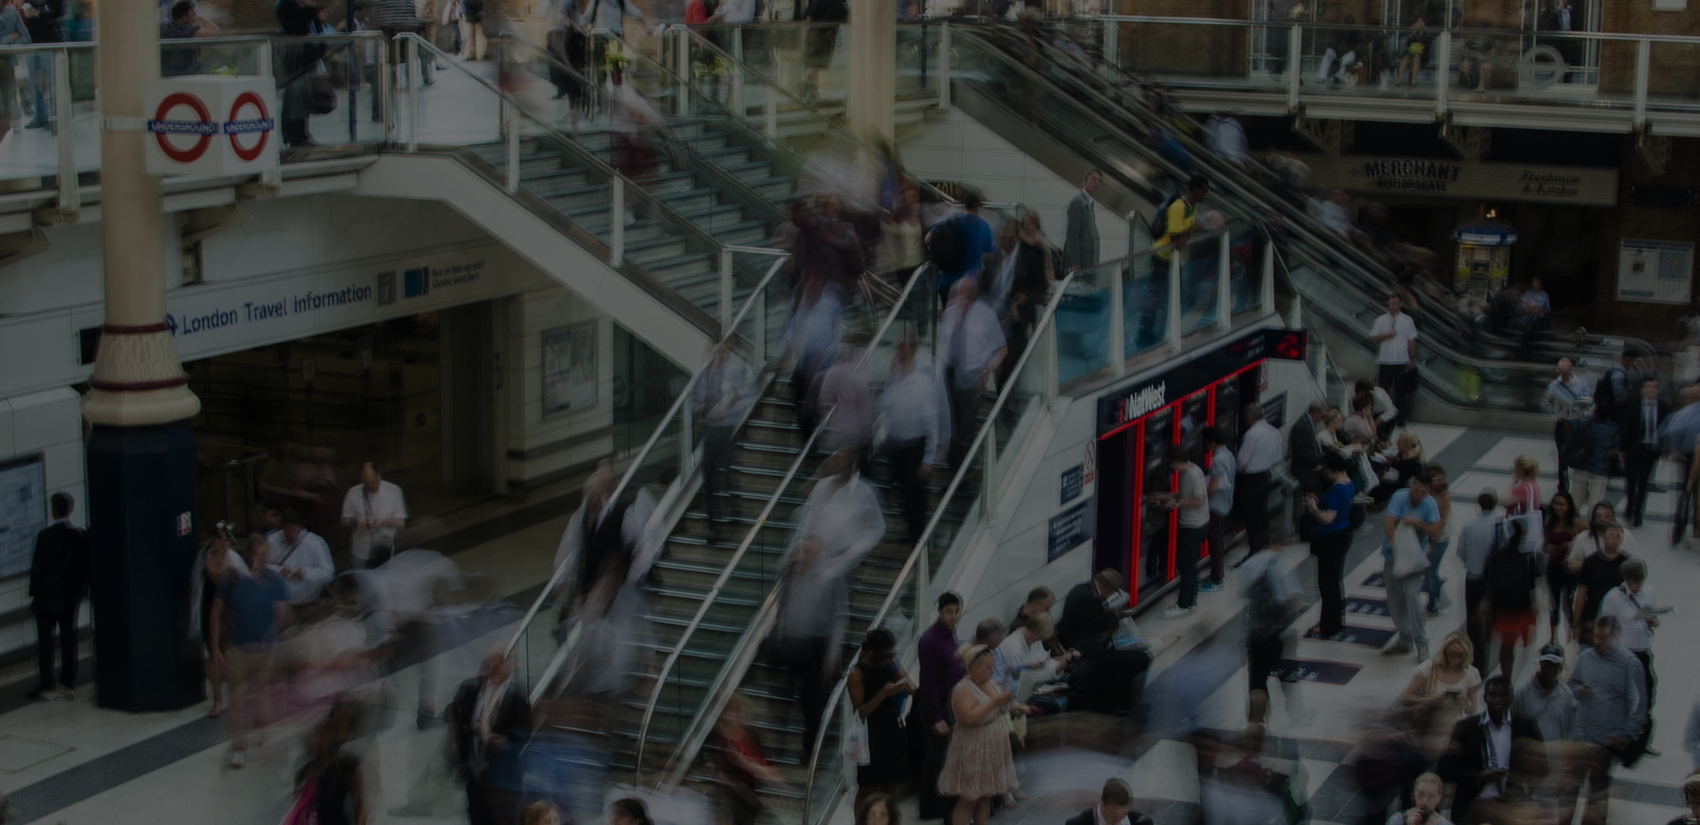
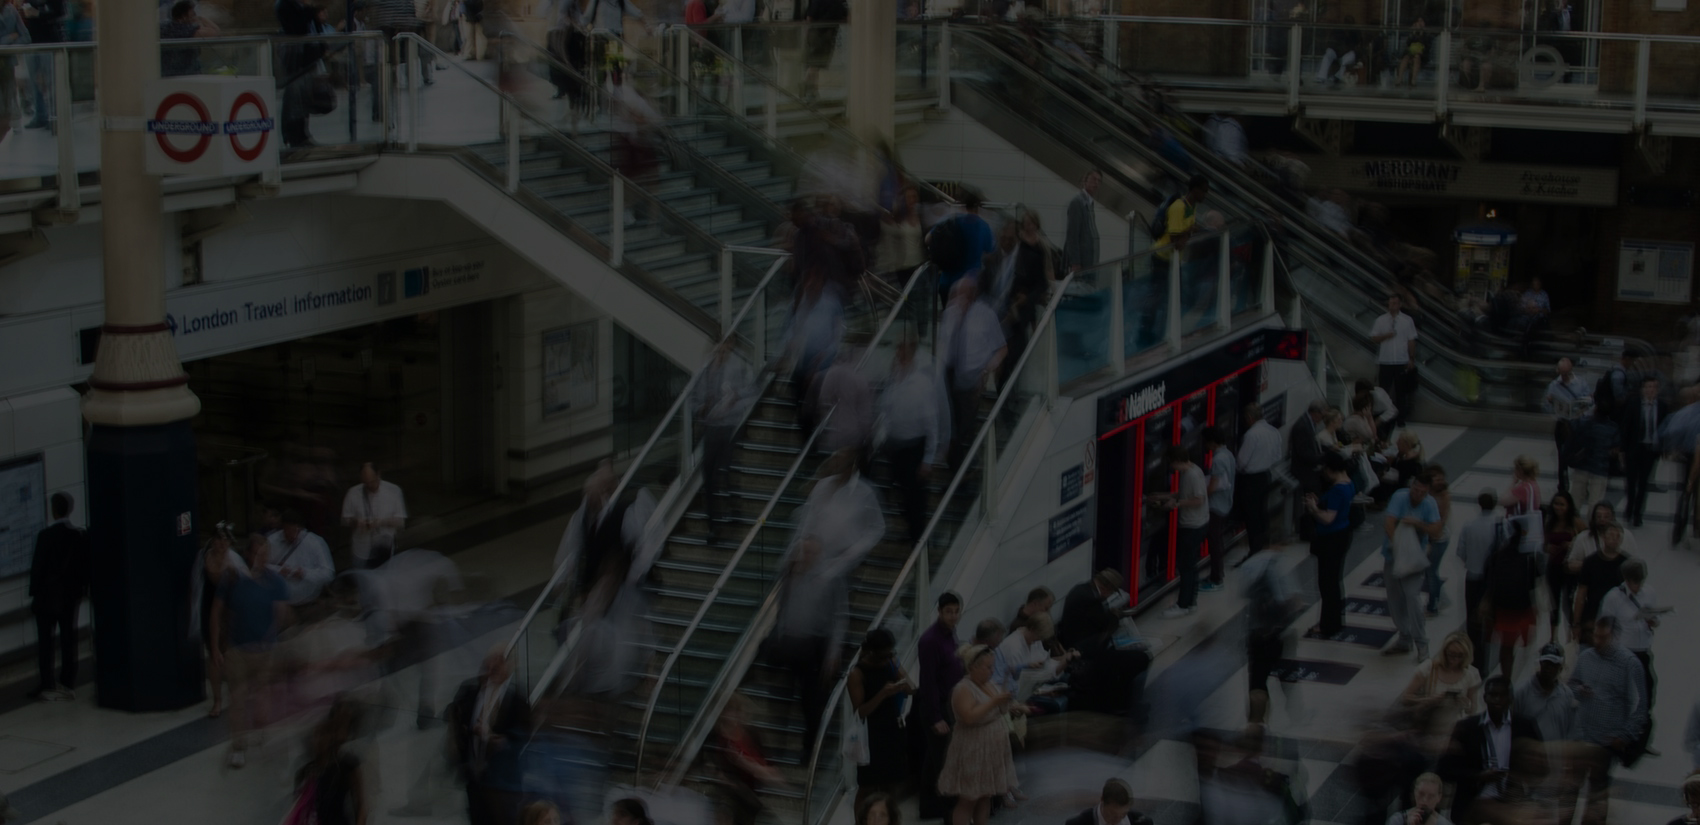
cover_redesign

diff --git a/css/styles.css b/css/styles.css
@@ -983,11 +983,11 @@ h3 {
 p {
   font-family: Proxima;
   color: #404040;
-  font-size: 16.4px; }
+  font-size: 18.4px; }
 
 @media (max-width: 992px) {
   p {
-    font-size: 16px; } }
+    font-size: 18px; } }
 .navbar-default {
   margin-bottom: 0px;
   background-color: #333840;
@@ -1053,7 +1053,10 @@ section.about .container {
 #two {
   min-with: 270px;
   margin-top: 11vw;
-  max-width: 650px; }
+  max-width: 650px;
+  margin-left: 4vw; }
+  #two h2, #two p {
+    color: white; }
 
 .btn-default {
   border-radius: 0px;
@@ -1215,10 +1218,22 @@ section.about .container {
   -moz-box-shadow: inset -1px -112px 0px -1px #FFDC4E;
   box-shadow: inset -1px -112px 0px -1px #FFDC4E; }
 
+#bg {
+  background-image: url("../img/bg1.jpg");
+  background-size: cover;
+  background-repeat: no-repeat;
+  height: 44vw;
+  -webkit-box-shadow: 0px 0px 8px 0 black;
+  -moz-box-shadow: 0px 0px 8px 0 black;
+  box-shadow: 0px 0px 8px 0 black; }
+
+.yellow > .col-md-12 {
+  padding-right: 0px;
+  padding-left: 0px; }
+
 @media (max-width: 992px) {
   #two {
-    padding-left: 50px;
-    max-width: 650px;
+    max-width: 710px;
     padding-right: 10PX;
     padding-bottom: 20px;
     margin-top: 0px; }
@@ -1238,4 +1253,7 @@ section.about .container {
     border-bottom: 14px solid #FFDC4E;
     box-shadow: none;
     -moz-box-shadow: none;
-    -webkit-box-shadow: none; } }
+    -webkit-box-shadow: none; }
+
+  #bg {
+    height: 50vh; } }

diff --git a/sass/styles.sass b/sass/styles.sass
@@ -1042,11 +1042,11 @@ h3
 p
   font-family: Proxima
   color: #404040
-  font-size: 16.4px
+  font-size: 18.4px
 
 @media (max-width: 992px)
   p
-    font-size: 16px
+    font-size: 18px
 
 .navbar-default
   margin-bottom: 0px
@@ -1116,6 +1116,10 @@ section.about .container
   min-with: 270px
   margin-top: 11vw
   max-width: 650px
+  margin-left: 4vw
+
+  h2, p
+    color: white
 
 .btn-default
   border-radius: 0px
@@ -1307,10 +1311,23 @@ section.about .container
     box-shadow: inset -1px -112px 0px -1px #FFDC4E
 
 
+
+#bg
+  background-image: url("../img/bg1.jpg")
+  background-size: cover
+  background-repeat: no-repeat
+  height: 44vw  
+  -webkit-box-shadow: 0px 0px 8px 0 black
+  -moz-box-shadow: 0px 0px 8px 0 black
+  box-shadow: 0px 0px 8px 0 black
+
+.yellow>.col-md-12
+  padding-right: 0px
+  padding-left: 0px
+
 @media (max-width: 992px)
   #two
-    padding-left: 50px
-    max-width: 650px
+    max-width: 710px
     padding-right: 10PX
     padding-bottom: 20px
     margin-top: 0px
@@ -1331,3 +1348,6 @@ section.about .container
     box-shadow: none
     -moz-box-shadow: none
     -webkit-box-shadow: none
+
+  #bg
+    height: 50vh

diff --git a/index.html b/index.html
@@ -62,9 +62,13 @@
                   <div id="one" class="col-md-12"></div>
                 </div>
               </div>
-              <div id="two" class="col-md-6">
-                <h2>Market research<br> was never so <span data-period="2000" data-rotate="[ &quot;agile.&quot;, &quot;affordable.&quot;, &quot;fast.&quot;, &quot;reliable.&quot; ]" class="txt-rotate"></span></h2>
-                <p>A market research tool that allows you to create online surveys, target specific groups and folow up results live in the cloud.</p>
+              <div id="bg" class="col-md-6">
+                <div class="container">
+                  <div id="two" class="col-md-12">
+                    <h2>Market research<br> was never so <span data-period="2000" data-rotate="[ &quot;agile.&quot;, &quot;affordable.&quot;, &quot;fast.&quot;, &quot;reliable.&quot; ]" class="txt-rotate"></span></h2>
+                    <p>A market research tool that allows you to create online surveys, target specific groups and folow up results live in the cloud.</p>
+                  </div>
+                </div>
               </div>
             </div>
           </div>
